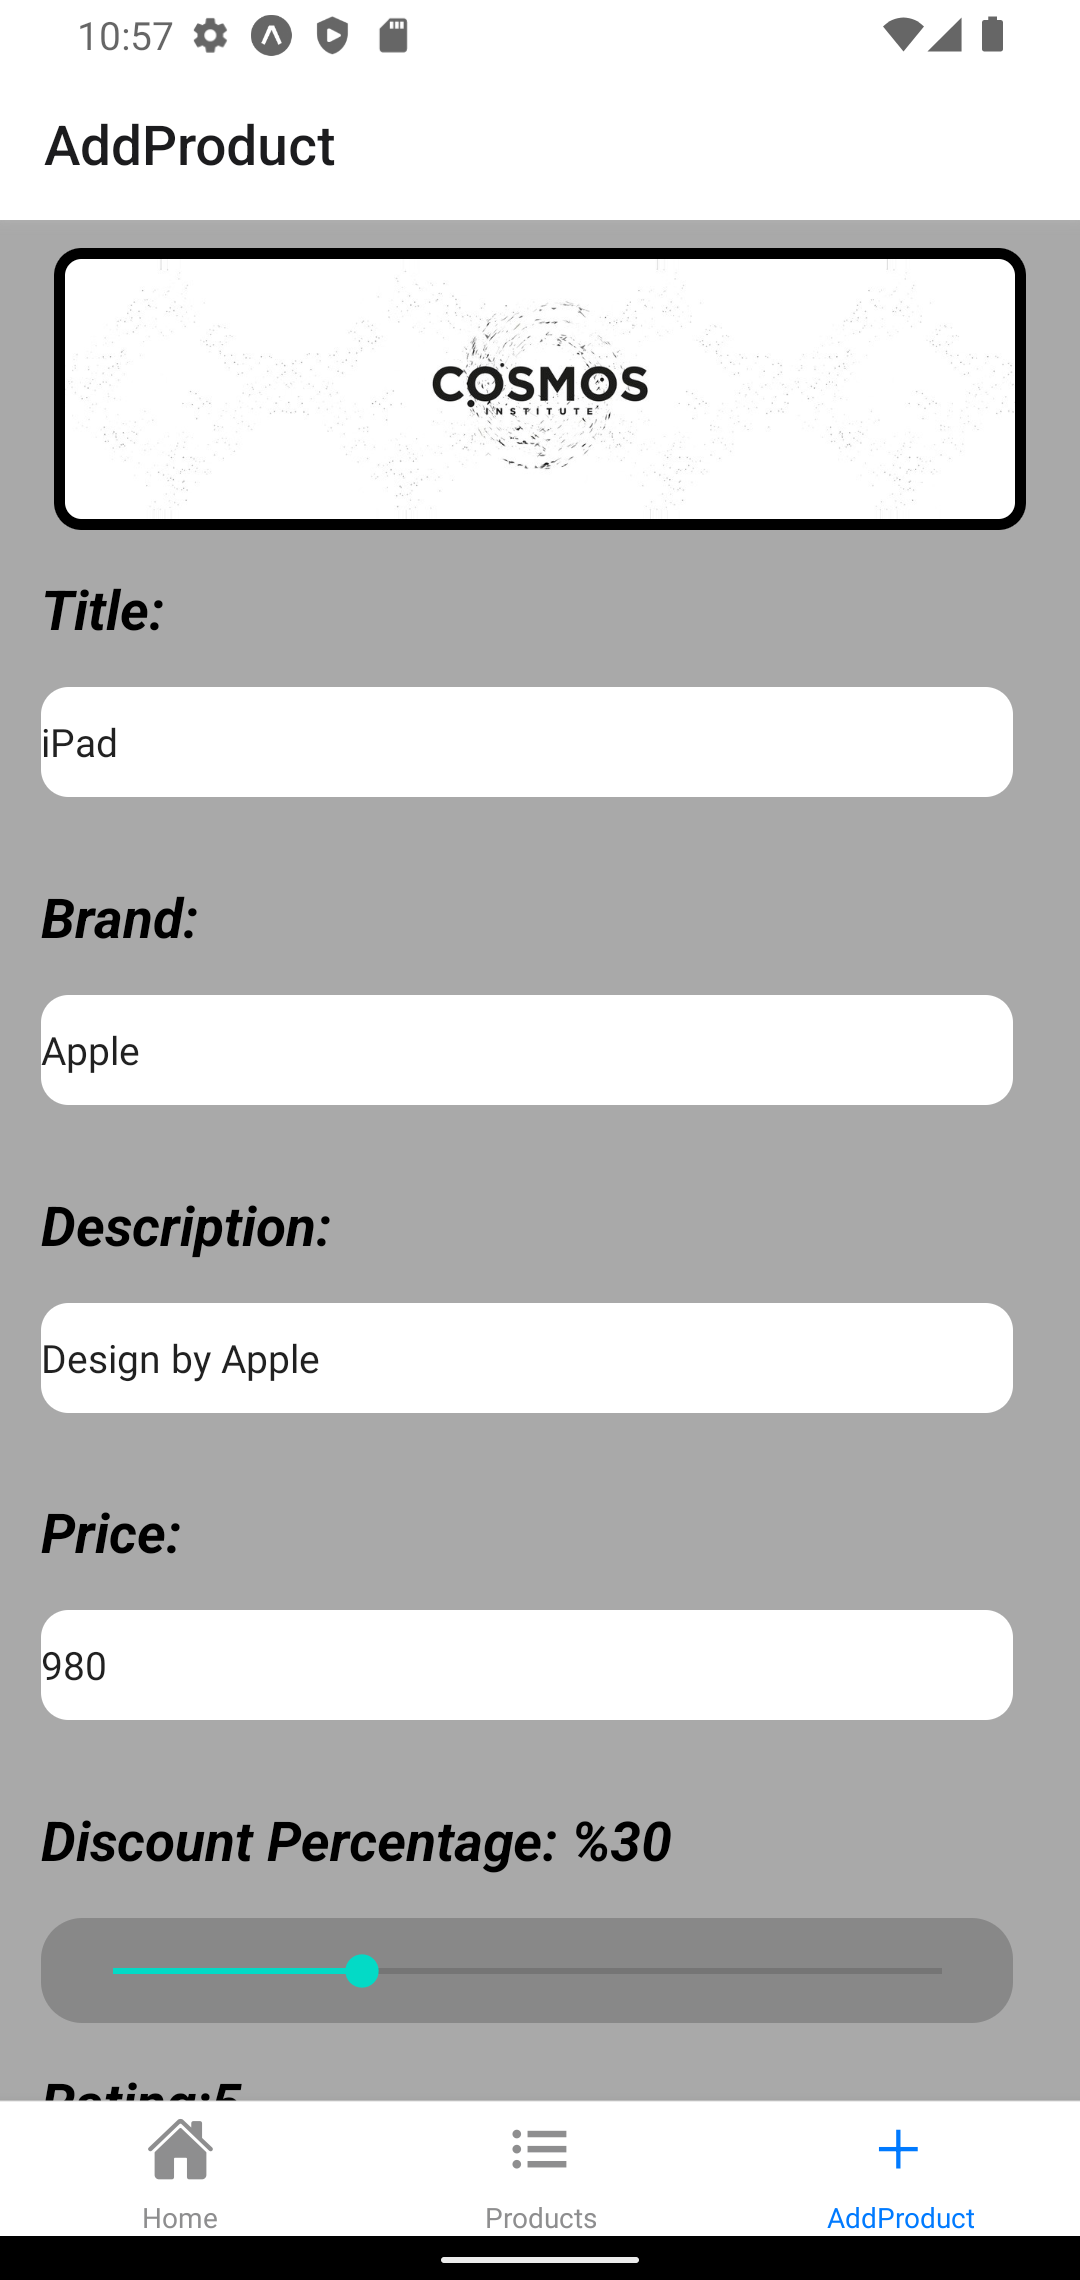
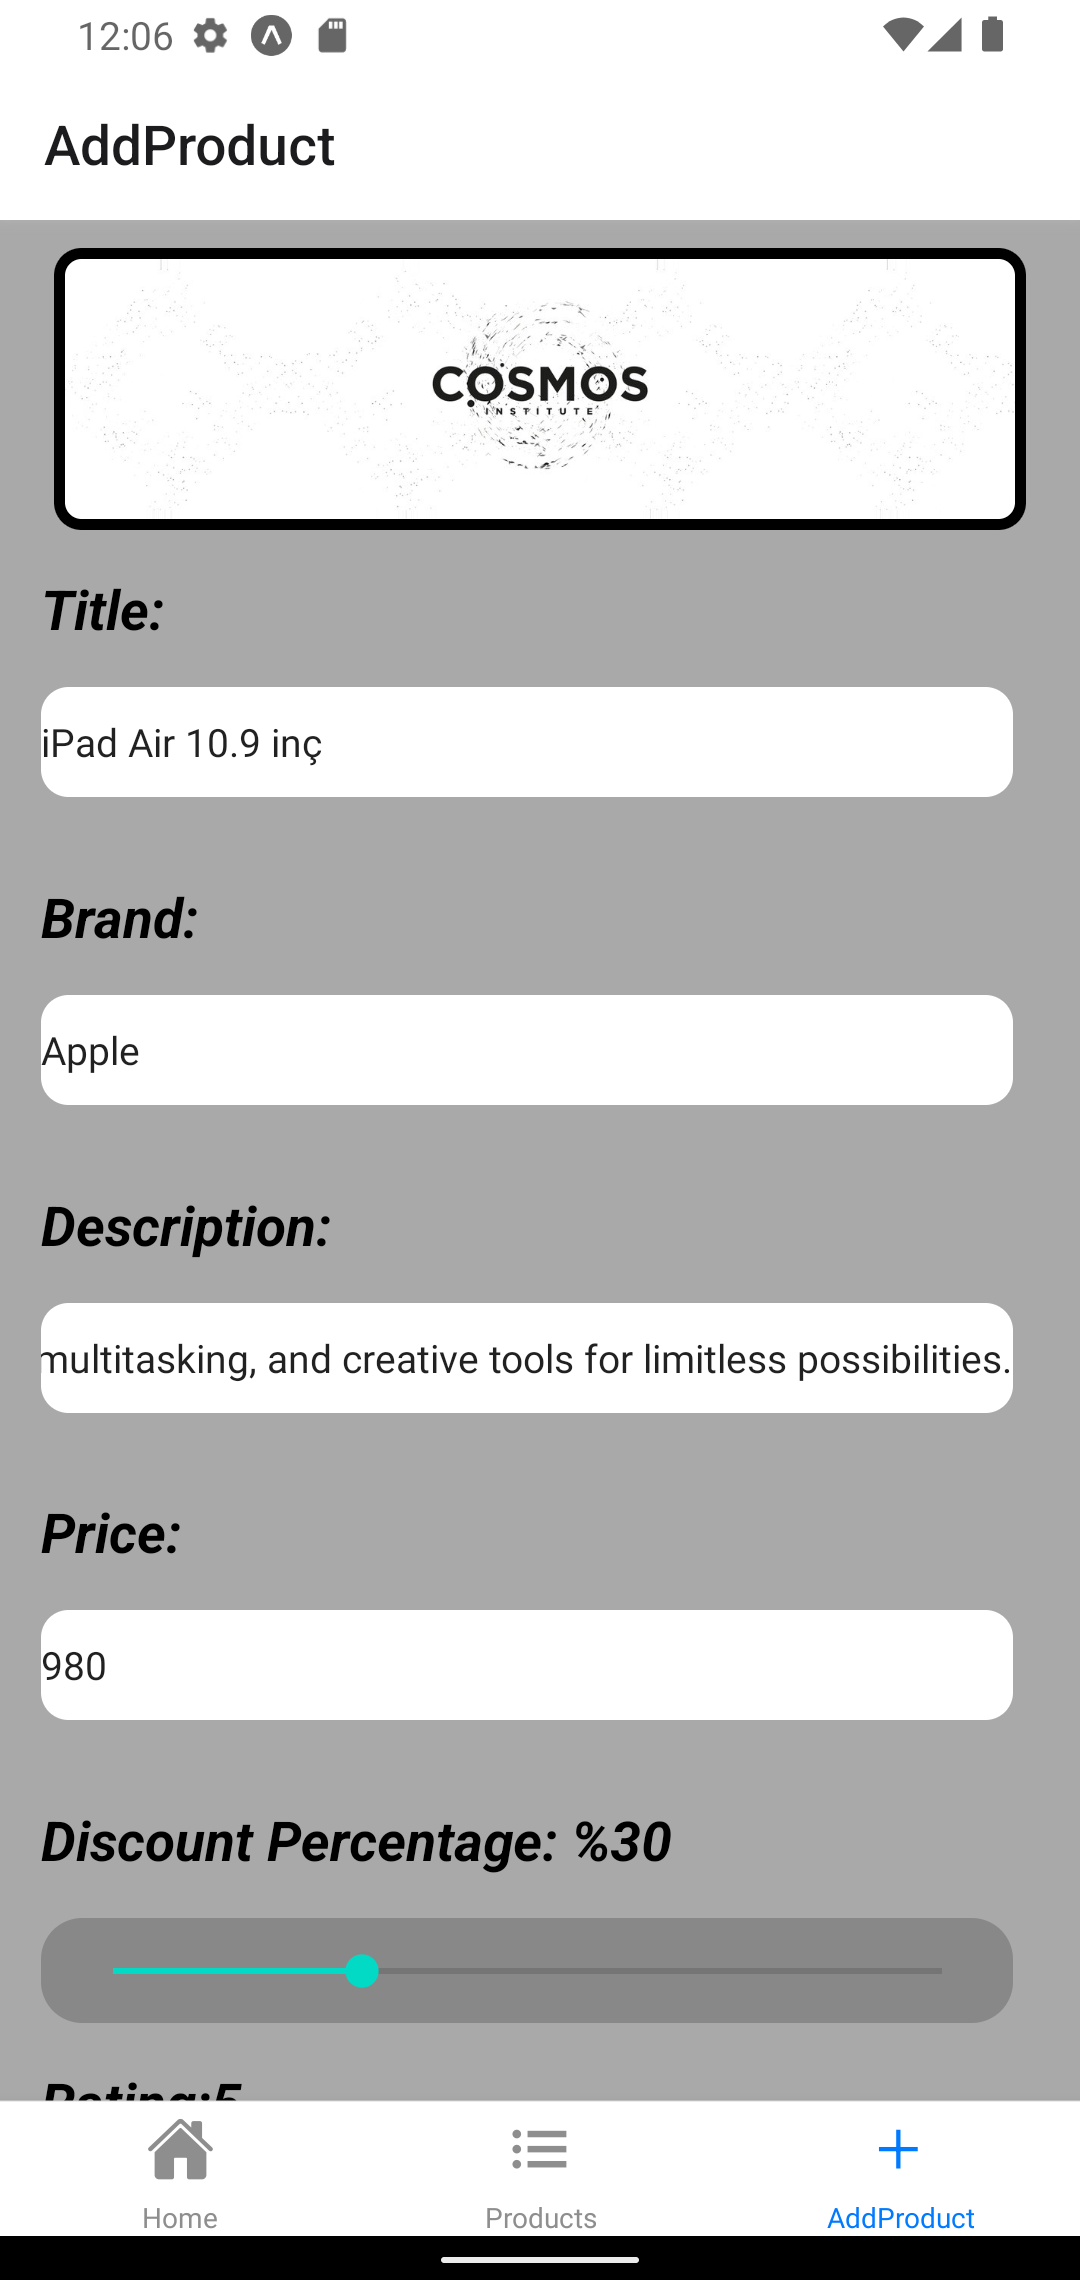
updated for image

diff --git a/src/pages/Login/index.jsx b/src/pages/Login/index.jsx
@@ -10,21 +10,24 @@ import {
 import Logo from "../../components/Logo";
 
 const Login = ({ navigation }) => {
+  // sample account you can use to log in=>username:hbingley1 password:CQutx25i8r
+  // const [userName, setUserName] = useState("hbingley1");
+  // const [password, setPassword] = useState("CQutx25i8r");
+  const [userName, setUserName] = useState("");
+  const [password, setPassword] = useState("");
   const [users, setUsers] = useState([]);
-  const [password, setPassword] = useState("CQutx25i8r");
-  const [userName, setUserName] = useState("hbingley1");
+
   const [control, setControl] = useState(false);
   const api = "https://dummyjson.com/users?limit=0&select=username,password";
 
-
-  const fetchData=()=>{
+  const fetchData = () => {
     fetch(api)
-    .then(res => res.json())
-    .then(json=>setUsers(json.users));
-  }
-  useEffect(()=>{
+      .then((res) => res.json())
+      .then((json) => setUsers(json.users));
+  };
+  useEffect(() => {
     fetchData();
-  },[])
+  }, []);
 
   const getUserIdByCredentials = (userName, password) => {
     const user = users.find(
@@ -62,7 +65,7 @@ const Login = ({ navigation }) => {
 
   return (
     <SafeAreaView style={styles.container}>
-      <Logo style={{marginTop: 24,}}/>
+      <Logo style={{ marginTop: 24 }} />
       <TextInput
         style={styles.input}
         onChangeText={setUserName}

diff --git a/src/pages/AddProduct/index.jsx b/src/pages/AddProduct/index.jsx
@@ -16,16 +16,15 @@ const AddProduct = (props) => {
   // const api = "https://fakestoreapi.com/products";
   const api = "https://dummyjson.com/products";
   const [formData, setFormData] = useState({
-    title: "iPad",
-    description: "Design by Apple",
-    price: 980,
-    discountPercentage: 30,
-    rating: 5,
-    stock: 25,
-    brand: "Apple",
-    category: "Tablet",
-    thumbnail:
-      "https://cdn.dsmcdn.com/ty395/product/media/images/20220412/16/89266450/103325487/1/1_org_zoom.jpg",
+    title: "",
+    description: "",
+    price: 0.0,
+    discountPercentage: 0,
+    rating: 0,
+    stock: 0,
+    brand: "",
+    category: "",
+    thumbnail:"",
     images: [],
   });
 
@@ -50,8 +49,7 @@ const AddProduct = (props) => {
       stock: 0,
       brand: "",
       category: "",
-      thumbnail:
-        "https://cdn.dsmcdn.com/ty395/product/media/images/20220412/16/89266450/103325487/1/1_org_zoom.jpg",
+      thumbnail:"",
       images: [],
     });
   };
